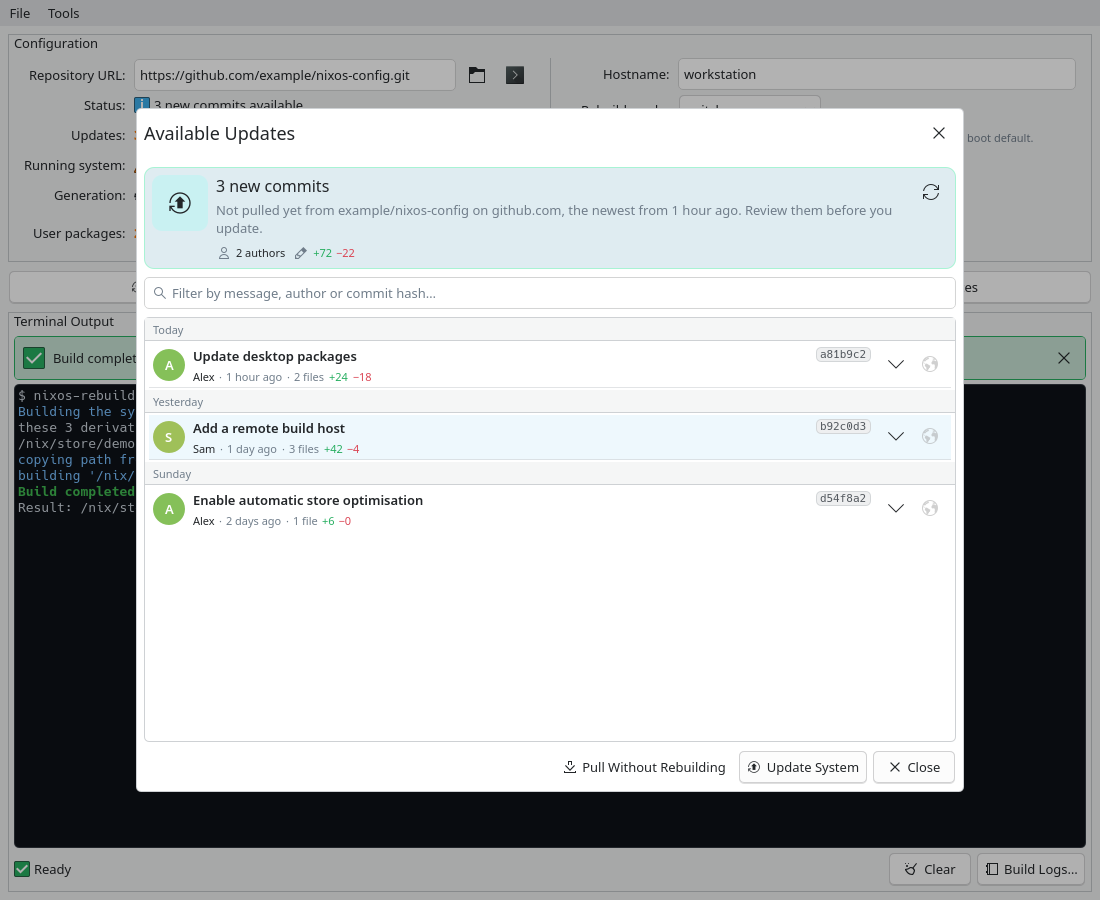
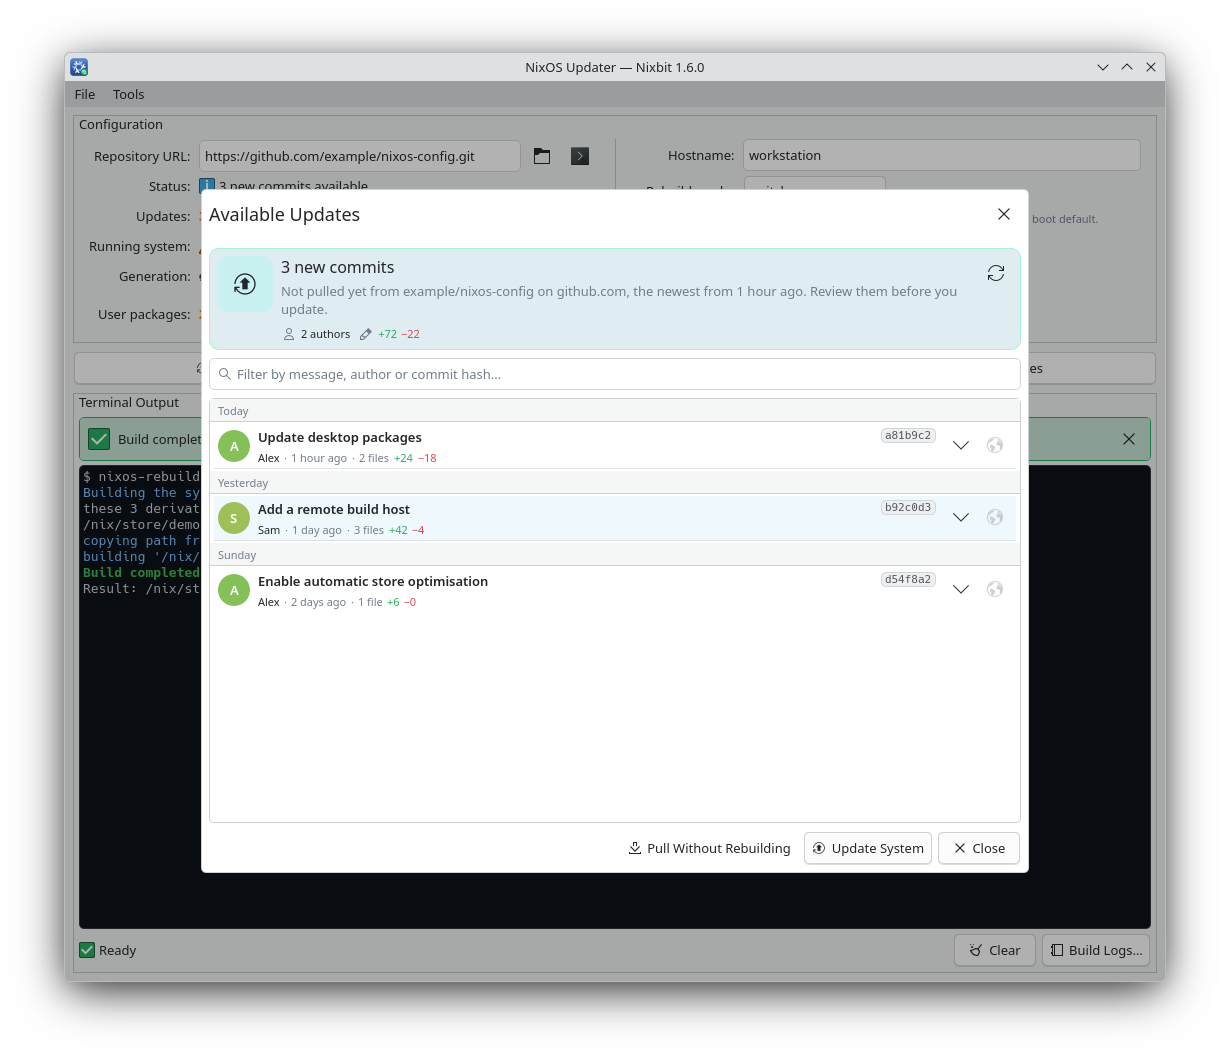
add: capture screenshots with Plasma window borders
Add framed desktop capture with Spectacle and kdotool, verify window ownership and focus, and retain frameless capture for headless use. Capture decorated windows by default in the Plasma VM and refresh all 19 gallery images with transparent shadows.

diff --git a/scripts/screenshots.py b/scripts/screenshots.py
@@ -10,6 +10,7 @@ import shutil
 import subprocess
 import sys
 import tempfile
+import time
 
 ROOT = Path(__file__).resolve().parent.parent
 TEMP_ROOT = "/tmp/opencode" if Path("/tmp/opencode").is_dir() else None
@@ -28,8 +29,10 @@ def validate_png(path):
         header = image.read(24)
     if len(header) != 24 or not header.startswith(PNG_SIGNATURE):
         raise RuntimeError(f"Not a PNG image: {path}")
-    if not all(int.from_bytes(header[i:i + 4], "big") > 0 for i in (16, 20)):
+    dimensions = tuple(int.from_bytes(header[i:i + 4], "big") for i in (16, 20))
+    if not all(dimension > 0 for dimension in dimensions):
         raise RuntimeError(f"Empty PNG image: {path}")
+    return dimensions
 
 
 def publish(source):
@@ -59,7 +62,84 @@ def publish(source):
             print(f"Published {target}")
 
 
-def capture(binary, output, scenes, timeout):
+def desktop_command(env, *arguments):
+    return subprocess.check_output(arguments, env=env, text=True, timeout=15).strip()
+
+
+def verify_window(env, window, process):
+    if (process.poll() is not None or
+            desktop_command(env, "kdotool", "getactivewindow") != window or
+            desktop_command(env, "kdotool", "getwindowpid", window) != str(process.pid)):
+        raise RuntimeError("Demo window lost focus or changed ownership; framed image discarded.")
+
+
+def capture_frame(command, env, ready, image, timeout, log):
+    """Ask KWin/Spectacle for the demo's decorations, never the entire desktop."""
+    try:
+        previous = desktop_command(env, "kdotool", "getactivewindow")
+    except subprocess.CalledProcessError:
+        previous = ""
+    process = subprocess.Popen(command + ["--screenshot-keep-open"], env=env,
+                               stdout=log, stderr=log)
+    try:
+        deadline = time.monotonic() + timeout
+        while not ready.is_file():
+            if process.poll() is not None:
+                raise RuntimeError("The demo exited before it was ready for framed capture.")
+            if time.monotonic() >= deadline:
+                raise RuntimeError("Timed out waiting for the demo window.")
+            time.sleep(0.1)
+        _, client_height = validate_png(ready)
+        # Plasma may append the application name to the window caption.
+        windows = []
+        while time.monotonic() < deadline:
+            if process.poll() is not None:
+                raise RuntimeError("The demo exited before its window could be identified.")
+            windows = desktop_command(env, "kdotool", "search", "--all", "--pid", str(process.pid),
+                                      "--title", "NixOS Updater").splitlines()
+            if len(windows) == 1:
+                break
+            time.sleep(0.2)
+        if len(windows) != 1:
+            raise RuntimeError(f"Could not uniquely identify the demo window for PID {process.pid}: {windows}")
+        window = windows[0]
+        # Leave room around the frame and its shadow, rather than hugging an edge.
+        desktop_command(env, "kdotool", "windowmove", window, "100", "60")
+        desktop_command(env, "kdotool", "windowactivate", window)
+        time.sleep(1)
+        verify_window(env, window, process)
+        staged = ready.with_name("framed.png")
+        subprocess.run(["spectacle", "--new-instance", "--background", "--nonotify", "--activewindow",
+                        "--delay", "1000", "--output", str(staged)],
+                       env=env, stdout=log, stderr=log, check=True, timeout=timeout)
+        verify_window(env, window, process)
+        _, framed_height = validate_png(staged)
+        if framed_height <= client_height:
+            raise RuntimeError("The compositor capture did not include a window frame.")
+        shutil.copyfile(staged, image)
+    finally:
+        if process.poll() is None:
+            process.terminate()
+            try:
+                process.wait(timeout=10)
+            except subprocess.TimeoutExpired:
+                process.kill()
+                process.wait()
+        if previous:
+            try:
+                desktop_command(env, "kdotool", "windowactivate", previous)
+            except subprocess.SubprocessError:
+                pass
+
+
+def capture(binary, output, scenes, timeout, framed=False):
+    if framed:
+        for tool in ("kdotool", "spectacle"):
+            if not shutil.which(tool):
+                raise RuntimeError(f"{tool} is required for --framed (use nix develop or a Plasma desktop).")
+        if os.environ.get("KDE_SESSION_VERSION") != "6":
+            raise RuntimeError("Framed captures require a running Plasma 6 session; use the VM or omit --framed.")
+        print("Capturing window frames. Please avoid switching windows until finished.", flush=True)
     binary = binary.resolve()
     if not binary.is_file():
         raise RuntimeError(f"Binary not found: {binary}; run `just flake-build` or use --binary.")
@@ -68,13 +148,17 @@ def capture(binary, output, scenes, timeout):
         raise RuntimeError(f"Output already exists: {output}; choose a fresh directory.")
     output.mkdir(parents=True)
     version = subprocess.check_output([str(binary), "--version"], text=True, timeout=30).strip()
-    manifest = {"version": version, "scenes": [], "capture": "Qt window contents (no desktop or decorations)"}
+    manifest = {"version": version, "scenes": [], "capture":
+                "Plasma window with decorations and shadow" if framed else "Qt window contents (no desktop or decorations)"}
     for scene in scenes:
         image = output / f"{scene}.png"
         with tempfile.TemporaryDirectory(prefix="nixbit-screenshot-", dir=TEMP_ROOT) as temporary:
             base = Path(temporary)
             env = os.environ.copy()
             env["QT_FORCE_STDERR_LOGGING"] = "1"
+            # Let each Nix-wrapped Qt tool use its own matching QML modules.
+            if framed:
+                env.pop("QML_IMPORT_PATH", None)
             # Appearance only: never copy the user's Nixbit settings or profile.
             desktop_config = Path(env.get("XDG_CONFIG_HOME", Path.home() / ".config"))
             desktop_data = env.get("XDG_DATA_HOME", str(Path.home() / ".local/share"))
@@ -95,10 +179,13 @@ def capture(binary, output, scenes, timeout):
                 env[variable] = str(directory)
             with (output / f"{scene}.log").open("w+") as log:
                 try:
-                    subprocess.run([str(binary), "--screenshot-scene", scene,
-                                    "--screenshot-output", str(image)], env=env,
-                                   stdout=log, stderr=log, check=True, timeout=timeout)
-                except subprocess.SubprocessError:
+                    ready = base / "ready.png" if framed else image
+                    command = [str(binary), "--screenshot-scene", scene, "--screenshot-output", str(ready)]
+                    if framed:
+                        capture_frame(command, env, ready, image, timeout, log)
+                    else:
+                        subprocess.run(command, env=env, stdout=log, stderr=log, check=True, timeout=timeout)
+                except (RuntimeError, subprocess.SubprocessError):
                     log.flush()
                     log.seek(0)
                     print(log.read()[-6000:], file=sys.stderr)
@@ -119,6 +206,7 @@ def main():
     parser.add_argument("--publish", type=Path, nargs="?", const=False,
                         help="Publish reviewed images, defaulting to the latest capture")
     parser.add_argument("--timeout", type=float, default=45)
+    parser.add_argument("--framed", action="store_true", help="Include Plasma window borders and shadows (requires kdotool and Spectacle)")
     args = parser.parse_args()
     try:
         if args.publish is not None:
@@ -126,7 +214,7 @@ def main():
         else:
             if args.timeout <= 0:
                 parser.error("--timeout must be positive")
-            capture(args.binary, args.output, SCENES if args.overview else args.scenes, args.timeout)
+            capture(args.binary, args.output, SCENES if args.overview else args.scenes, args.timeout, args.framed)
     except (OSError, RuntimeError, subprocess.SubprocessError) as error:
         parser.exit(1, f"{error}\nCapture logs are retained in {args.output}.\n")
 

diff --git a/scripts/test_screenshots.py b/scripts/test_screenshots.py
@@ -7,7 +7,7 @@ import re
 from pathlib import Path
 import tempfile
 import unittest
-from unittest.mock import patch
+from unittest.mock import Mock, patch
 
 SPEC = importlib.util.spec_from_file_location("screenshots", Path(__file__).with_name("screenshots.py"))
 screenshots = importlib.util.module_from_spec(SPEC)
@@ -21,9 +21,9 @@ class ScreenshotTests(unittest.TestCase):
         self.addCleanup(self.temporary.cleanup)
         self.root = Path(self.temporary.name)
 
-    def png(self, path):
+    def png(self, path, height=900):
         path.write_bytes(screenshots.PNG_SIGNATURE + b"\0\0\0\rIHDR" +
-                         (1100).to_bytes(4, "big") + (900).to_bytes(4, "big"))
+                         (1100).to_bytes(4, "big") + height.to_bytes(4, "big"))
 
     def test_scene_lists_match_entry_point(self):
         source = (screenshots.ROOT / "src/main.cpp").read_text()
@@ -104,6 +104,76 @@ class ScreenshotTests(unittest.TestCase):
                 screenshots.capture(binary, output, ["packages"], 1)
         self.assertFalse((output / "capture.json").exists())
         self.assertTrue((output / "packages.log").is_file())
+
+    def framed_capture(self, change_focus=False, frame_height=960):
+        ready = self.root / "ready.png"
+        image = self.root / "published.png"
+        self.png(ready)
+        process = Mock(pid=1234)
+        process.poll.return_value = None
+        active = ["original-window"]
+
+        def desktop(env, *arguments):
+            action = arguments[1]
+            if action == "getactivewindow":
+                return active[0]
+            if action == "search":
+                return "demo-window"
+            if action == "getwindowpid":
+                return "1234"
+            if action == "windowactivate":
+                active[0] = arguments[2]
+            return ""
+
+        def spectacle(command, **kwargs):
+            self.assertIn("--activewindow", command)
+            self.assertIn("--background", command)
+            self.assertNotIn("--fullscreen", command)
+            self.assertNotIn("--no-decoration", command)
+            self.assertNotIn("--no-shadow", command)
+            self.assertNotIn("--pointer", command)
+            self.png(Path(command[-1]), height=frame_height)
+            if change_focus:
+                active[0] = "unrelated-window"
+
+        with patch.object(screenshots.subprocess, "Popen", return_value=process) as launch, \
+                patch.object(screenshots, "desktop_command", side_effect=desktop), \
+                patch.object(screenshots.subprocess, "run", side_effect=spectacle), \
+                patch.object(screenshots.time, "sleep"):
+            if change_focus or frame_height <= 900:
+                with self.assertRaisesRegex(RuntimeError, "discarded" if change_focus else "window frame"):
+                    screenshots.capture_frame(["nixbit"], {}, ready, image, 45, Mock())
+                self.assertFalse(image.exists())
+            else:
+                screenshots.capture_frame(["nixbit"], {}, ready, image, 45, Mock())
+                screenshots.validate_png(image)
+            self.assertIn("--screenshot-keep-open", launch.call_args.args[0])
+        process.terminate.assert_called_once()
+        process.wait.assert_called_once()
+        self.assertEqual(active[0], "original-window")
+
+    def test_frame_includes_decorations_and_restores_focus(self):
+        self.framed_capture()
+
+    def test_frame_discards_image_if_focus_changes(self):
+        self.framed_capture(change_focus=True)
+
+    def test_frame_rejects_undecorated_capture(self):
+        self.framed_capture(frame_height=900)
+
+    def test_frame_rejects_foreign_window(self):
+        process = Mock(pid=1234)
+        process.poll.return_value = None
+        with patch.object(screenshots, "desktop_command", side_effect=["demo-window", "5678"]):
+            with self.assertRaisesRegex(RuntimeError, "ownership"):
+                screenshots.verify_window({}, "demo-window", process)
+
+    def test_frame_requires_capture_tools_before_creating_output(self):
+        output = self.root / "not-created"
+        with patch.object(screenshots.shutil, "which", return_value=None):
+            with self.assertRaisesRegex(RuntimeError, "kdotool"):
+                screenshots.capture(self.root / "nixbit", output, ["packages"], 45, framed=True)
+        self.assertFalse(output.exists())
 
 
 if __name__ == "__main__":

diff --git a/src/main.cpp b/src/main.cpp
@@ -24,6 +24,7 @@
 #include <QQmlComponent>
 #include <QQmlContext>
 #include <QQuickWindow>
+#include <QSaveFile>
 #include <QTimer>
 #include <memory>
 
@@ -81,6 +82,8 @@ int main(int argc, char *argv[]) {
         "screenshot-scene", "Render an isolated demo scene", "scene"));
     parser.addOption(QCommandLineOption(
         "screenshot-output", "Save the demo window as PNG and exit", "path"));
+    parser.addOption(QCommandLineOption(
+        "screenshot-keep-open", "Keep the demo open for compositor capture"));
 
     parser.process(coreApp);
 
@@ -138,6 +141,8 @@ int main(int argc, char *argv[]) {
       "screenshot-scene", "Render an isolated demo scene", "scene"));
   guiParser.addOption(QCommandLineOption(
       "screenshot-output", "Save the demo window as PNG and exit", "path"));
+  guiParser.addOption(QCommandLineOption(
+      "screenshot-keep-open", "Keep the demo open for compositor capture"));
   guiParser.process(app);
 
   // Do not even construct the real managers in demo mode: their constructors
@@ -200,15 +205,19 @@ int main(int argc, char *argv[]) {
     }
     QTimer::singleShot(2500, &app, [&]() {
       const QImage image = window->grabWindow();
-      app.exit(!image.isNull() &&
-                       image.save(guiParser.value("screenshot-output"), "PNG")
-                   ? 0
-                   : 1);
+      QSaveFile file(guiParser.value("screenshot-output"));
+      if (image.isNull() || !file.open(QIODevice::WriteOnly) ||
+          !image.save(&file, "PNG") || !file.commit()) {
+        app.exit(1);
+      } else if (!guiParser.isSet("screenshot-keep-open")) {
+        app.exit(0);
+      }
     });
     return app.exec();
   }
-  if (guiParser.isSet("screenshot-output")) {
-    qCritical() << "--screenshot-output requires --screenshot-scene";
+  if (guiParser.isSet("screenshot-output") ||
+      guiParser.isSet("screenshot-keep-open")) {
+    qCritical() << "Screenshot output options require --screenshot-scene";
     return 1;
   }
 

diff --git a/docs/screenshots.md b/docs/screenshots.md
@@ -10,6 +10,7 @@ illustrative, not a live report of nixpkgs.
 ```bash
 just flake-build
 just screenshots
+just screenshots --framed
 just screenshots --scenes packages packages-details packages-search
 ```
 
@@ -21,9 +22,18 @@ and `capture.json` identifying the binary version and completed scenes. Use
 Only desktop appearance settings are copied to disposable directories. Qt
 renders the application window contents directly, including embedded dialogs;
 desktop contents, other windows, window decorations and the pointer are never
-captured. This works on X11 and Wayland without Spectacle or focus automation.
+captured in the default frameless mode. This works on X11 and Wayland without
+Spectacle or focus automation.
 For CI without a desktop, use `QT_QPA_PLATFORM=offscreen QT_QUICK_BACKEND=software`.
 Prefer the VM for consistent Plasma styling and matching Qt plugins.
+
+Use `--framed` on a Plasma 6 desktop to include the real window borders, title
+bar and shadow. This requires `kdotool` and Spectacle, provided by `nix develop`
+and devenv. The application stays open until Spectacle captures its active
+window; the script checks window ownership and focus before and after capture,
+discards images if focus changed, and restores the previously active window.
+Avoid switching windows during framed capture. No pointer or full-desktop
+capture is requested. Spectacle also uses disposable settings.
 
 ## Isolated NixOS Plasma VM
 
@@ -37,7 +47,7 @@ a Nix builder configured to expose KVM (`system-features = kvm`). The VM uses
 the locked nixpkgs and a disposable Plasma session. It needs about 4 GiB of RAM.
 Nix may download substantial dependencies on the first run.
 
-The VM recipe captures every scene, copies results into a fresh
+The VM recipe captures every scene **with borders and shadows**, copies results into a fresh
 `build-screenshots/<timestamp>-vm` directory, and does not replace `result`.
 Extra arguments go to `nix build`, for example `--show-trace`.
 Each recipe run changes the capture derivation so existing screenshots are not

diff --git a/screenshots/README.md b/screenshots/README.md
@@ -2,7 +2,8 @@
 
 This directory contains screenshots showcasing the various features and interfaces of Nixbit.
 
-Regenerate them with `just screenshots-vm` or `just screenshots`, then review and
+Regenerate them with `just screenshots-vm` (including window borders) or
+`just screenshots --framed` on Plasma, then review and
 publish with `just screenshots-publish <capture-directory>`.
 See [automatic screenshot documentation](../docs/screenshots.md) for scene coverage,
 requirements and debugging.

diff --git a/CHANGELOG.md b/CHANGELOG.md
@@ -2,6 +2,9 @@
 
 ## Unreleased
 
+- Add framed screenshots with Plasma window borders and shadows; the screenshot
+  VM now captures decorated windows by default
+
 - Add automatic screenshots of the main window, settings pages, commits,
   generations, logs and user package dialogs using isolated offline demo data
 - Add capture, reviewed publishing and NixOS Plasma VM screenshot recipes
